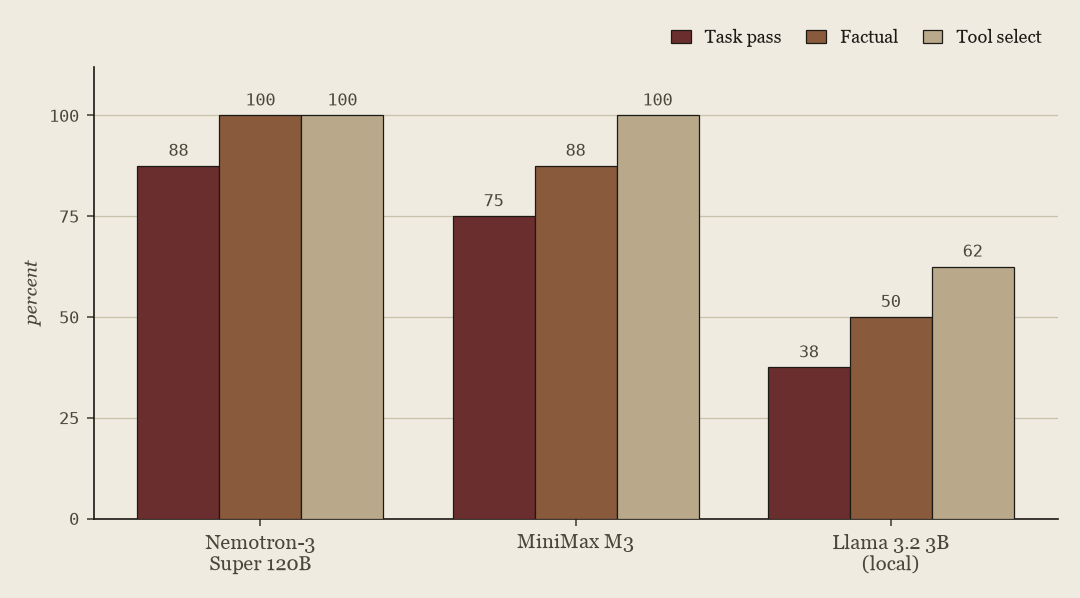
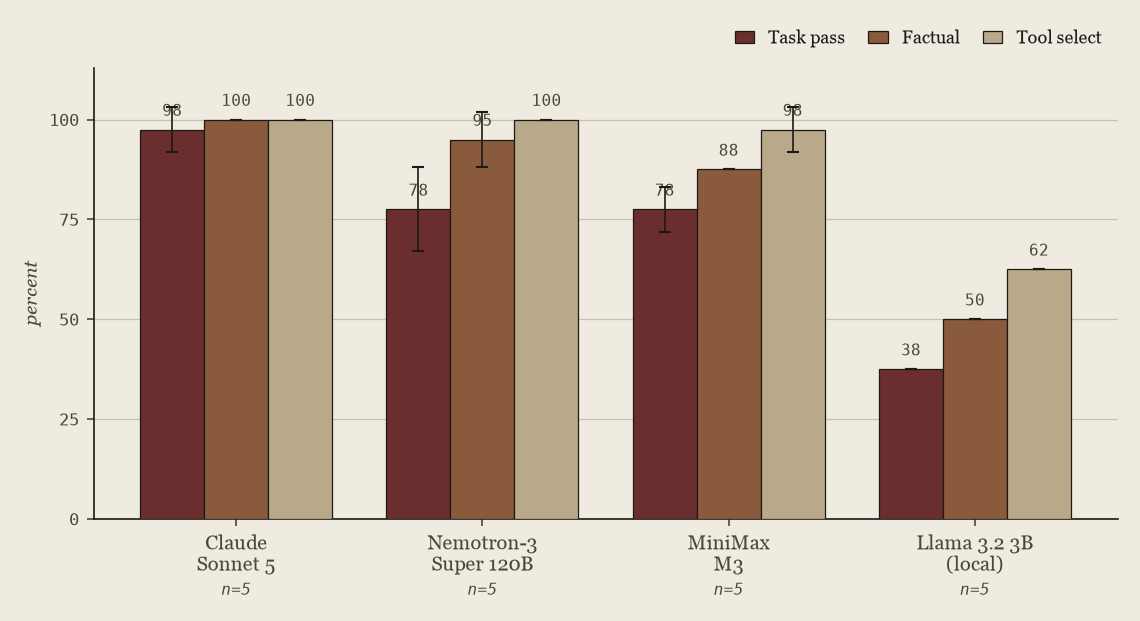
Rewrite NHS agent §5 with rigorous n=5 benchmark

diff --git a/applied-ml.html b/applied-ml.html
@@ -453,30 +453,32 @@ table.paper-table tr.emphasis td{ font-style:italic; color:var(--accent-ink); }
     <p class="section-meta">nhs-care-access-agent</p>
     <div class="paper-body">
       <p>An MCP server makes trustworthy tools available; it does not prove a model will choose the right tool, pass valid arguments, read the result correctly, or abstain when the data is missing. This project builds a model-agnostic research agent over the read-only server from §2 and evaluates those behaviours separately, instead of treating a fluent answer as evidence of reliability.</p>
-      <p>The agent is a small, inspectable multi-turn tool-use loop with turn and tool-call budgets. The same loop drives local open-weight models through Ollama, Gemini, and any OpenAI-compatible hosted endpoint. A deterministic evaluator runs a frozen task set — eight cases spanning direct lookup, ranking, a joined profile, a twelve-month trend, and three abstention or misleading-premise prompts — whose expected facts are pinned to a specific database snapshot by SHA-256, so a data change is caught rather than silently rescored.</p>
-      <p>Model size dominated. A local 3B model reached 37.5% task pass: it emitted tool calls as literal text without invoking them, passed malformed arguments, and confirmed a false premise by agreeing a 31-week wait was one of the shortest in England. Two larger free hosted models both selected the correct tool on every case and abstained correctly on missing data. Two <em>scoring</em> gaps surfaced honestly in the write-up rather than tuned away: a keyword-based abstention check under-counts naturally phrased refusals, and pinning one required tool penalises a correct answer reached by a valid alternate path.</p>
+      <p>The agent is a small, inspectable multi-turn tool-use loop with turn and tool-call budgets. One loop drives four interchangeable adapters — Claude, a local open-weight model through Ollama, and hosted open models — over the same tools and the same task set. A deterministic evaluator runs a frozen set of eight cases (direct lookup, ranking, a joined profile, a twelve-month trend, and three abstention or misleading-premise prompts) whose expected facts are pinned to one database snapshot by SHA-256, so a data change is caught rather than silently rescored. Each model runs the set five times: agents are stochastic, and a single pass over eight cases is a point estimate with no error bar.</p>
+      <p>Running five times changes the reading. The frontier model, Claude Sonnet 5, sets a clean ceiling at 97.5% — and its one recurring miss is not a capability gap but the evaluator's own keyword-based abstention check failing to match a correctly hedged refusal. Nemotron-3 Super, which a single run had put at 87.5%, is really 77.5% ± 10.5: the point estimate had caught a good day, and its true spread is the widest of the four. MiniMax matches it on accuracy but is three times slower (16s median vs. 5s). The local 3B model is perfectly deterministic at 37.5% — it fails the same five cases every run: emitting tool calls as literal text without invoking them, passing malformed arguments, and confirming a false premise by agreeing a 31-week wait was one of the shortest in England. Its failures are systematic, not unlucky.</p>
+      <p>The most useful output is what the harness caught about itself. Two <em>scoring</em> gaps are reported rather than tuned away: the keyword abstention check under-counts naturally phrased refusals — the single largest distortion, and the reason even Sonnet drops below 100% — and pinning one required tool penalises a correct answer reached by a valid alternate path. An eval that surfaces its own measurement error is worth more than one that reports a flattering number.</p>
 
       <div class="tbl-wrap">
-        <p class="tbl-label">Table 4 — Frozen task set, 8 cases, pinned snapshot</p>
+        <p class="tbl-label">Table 4 — Frozen task set, 8 cases, n=5 (mean ± sample sd)</p>
         <table class="paper-table">
-          <thead><tr><th>Model</th><th>Pass</th><th>Factual</th><th>Tool select</th></tr></thead>
+          <thead><tr><th>Model</th><th>Pass</th><th>Factual</th><th>Tool select</th><th>p50 ms</th></tr></thead>
           <tbody>
-            <tr class="emphasis"><td>Nemotron-3 Super 120B</td><td>87.5%</td><td>100%</td><td>100%</td></tr>
-            <tr><td>MiniMax M3</td><td>75.0%</td><td>87.5%</td><td>100%</td></tr>
-            <tr><td>Llama 3.2 3B (local)</td><td>37.5%</td><td>50.0%</td><td>62.5%</td></tr>
+            <tr class="emphasis"><td>Claude Sonnet 5</td><td>97.5 ± 5.6</td><td>100 ± 0</td><td>100 ± 0</td><td>4900</td></tr>
+            <tr><td>Nemotron-3 Super 120B</td><td>77.5 ± 10.5</td><td>95.0 ± 6.8</td><td>100 ± 0</td><td>6900</td></tr>
+            <tr><td>MiniMax M3</td><td>77.5 ± 5.6</td><td>87.5 ± 0</td><td>97.5 ± 5.6</td><td>16000</td></tr>
+            <tr><td>Llama 3.2 3B (local)</td><td>37.5 ± 0</td><td>50.0 ± 0</td><td>62.5 ± 0</td><td>4900</td></tr>
           </tbody>
         </table>
       </div>
 
       <figure class="fig">
         <p class="fig-label">Fig. 2</p>
-        <img src="assets/nhs-agent-benchmark.png" alt="Grouped bar chart of task pass, factual correctness, and tool-selection rates for the three models. The two larger hosted models cluster near the top; the local 3B is markedly lower on every metric.">
-        <p class="fig-caption">Task pass, factual correctness, and tool-selection across the eight-case frozen set. The two larger models reach 100% tool-selection; the local 3B trails on every metric.</p>
+        <img src="assets/nhs-agent-benchmark.png" alt="Grouped bar chart with error bars of task pass, factual correctness, and tool-selection rates for four models over five runs each. Claude Sonnet 5 leads near 100%, the two open hosted models sit around 78% with wider error bars, and the local 3B trails at 37.5% with no variance.">
+        <p class="fig-caption">Task pass, factual correctness, and tool-selection over five runs each (error bars: sample sd). Note Nemotron's wide task-pass interval and the 3B's zero variance — its failures are systematic, not sampled.</p>
       </figure>
 
-      <p class="stat-note">Every run emits a portable JSONL trace; the evaluator scores known facts, tool selection, tool budget, and safe abstention, and reports p50/p95 latency. Only tool names the connected MCP server exposes are callable, and all NHS tools are read-only.</p>
+      <p class="stat-note">Every run emits a portable JSONL trace; the evaluator scores known facts, tool selection, tool budget, and safe abstention, and reports p50/p95 latency. Runs are at temperature 0 where the provider allows it (Claude runs at its default, temperature being deprecated there). Only tool names the connected MCP server exposes are callable, and all NHS tools are read-only.</p>
     </div>
-    <div class="apparatus"><span class="label">Stack</span>MCP · Model-agnostic adapters · Ollama · OpenRouter · Deterministic eval</div>
+    <div class="apparatus"><span class="label">Stack</span>MCP · Model-agnostic adapters · Claude · Ollama · OpenRouter · Deterministic eval</div>
     <div class="refs"><a href="https://github.com/Roberto-Pecora/nhs-care-access-agent" target="_blank" rel="noopener">Repository</a></div>
   </section>
 
